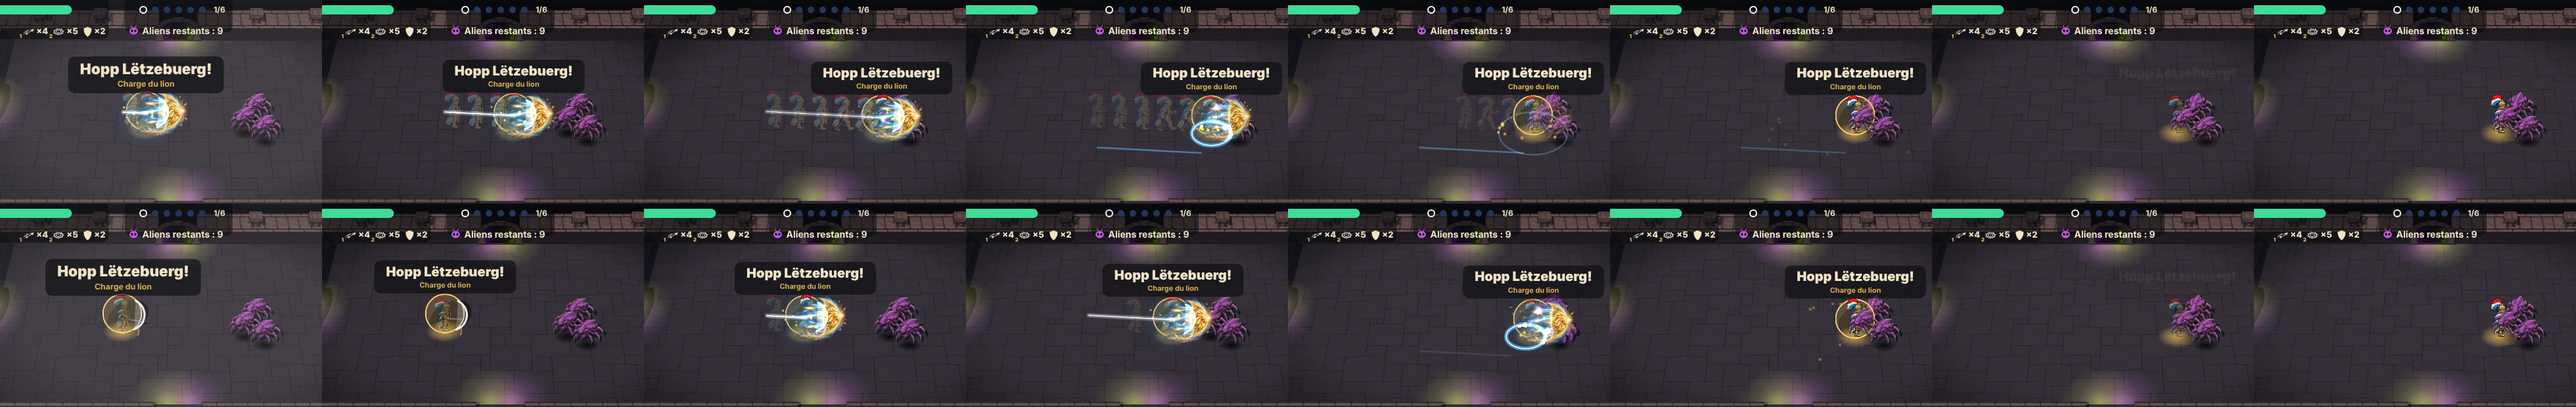
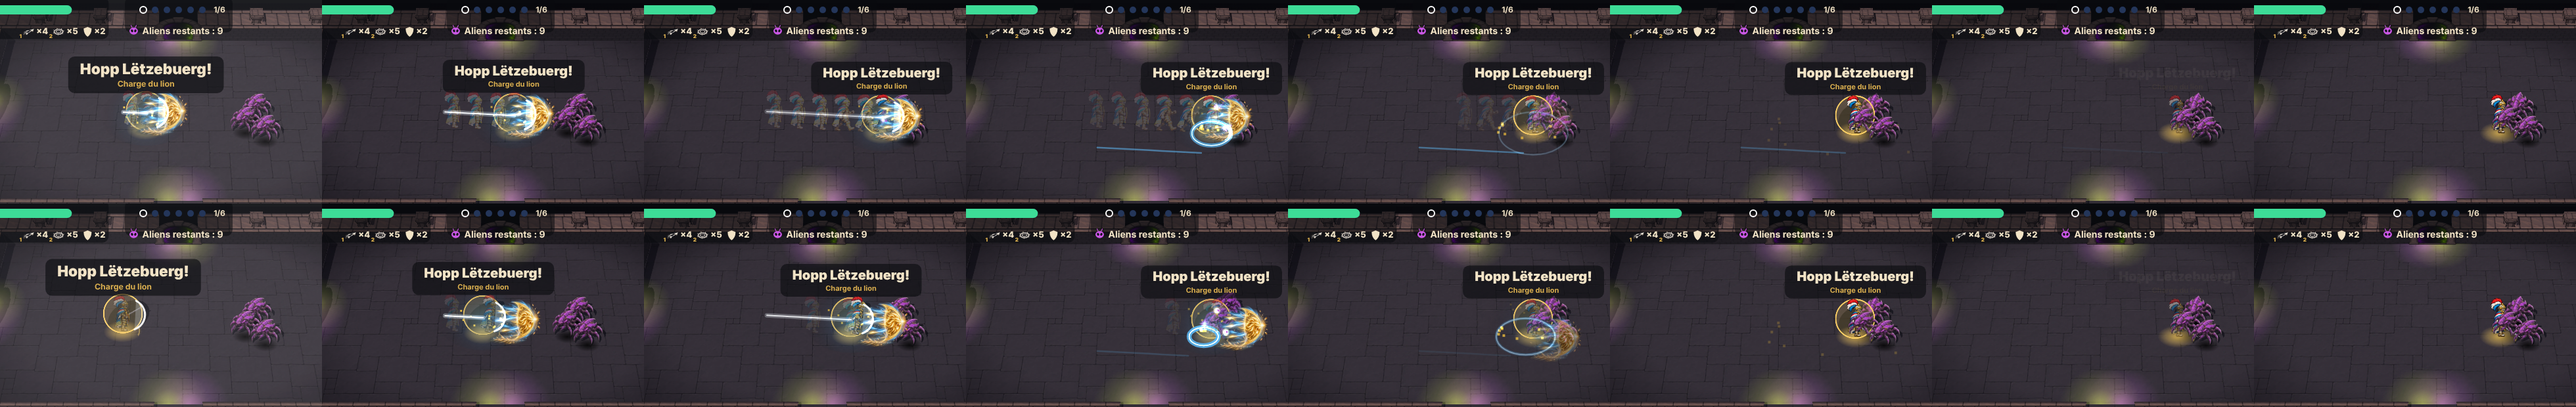
[개발팀] 시전감 시험 3개를 디자인 style-guide 수치로 맞춤 (활 하늘로·빛줄기·조준 원·포물선 창·검끝 섬광·돌진 기울기) + 움짤
Claude-Session: https://claude.ai/code/session_013M9CK2UFP2bu5qUnTrTZoi

diff --git a/src/game.js b/src/game.js
@@ -658,26 +658,32 @@
   // 시험 3개 먼저(한국 1·스위스 1·룩셈부르크 1). 사용자 확인 뒤 나라를 늘려요
   const FEEL = new Set(['korea', 'switzerland', 'luxembourg']);
   const feelOn = () => FEEL.has(G.country.key);
-  const FEEL_T = { BOW_UP: .15, BOW_FLY: .30, THROW_REL: .20, CROUCH: .15 };   // 활 들기 → 쏘기 0.15 · 쏜 뒤 0.3초에 낙하 · 던지기 놓는 순간 0.2(꽂힐 때까지 손이 비어요) · 돌진 웅크리기 0.15
+  // 시간은 style-guide "스킬 시전 동작" 표 (디자인팀 9e253d1)
+  const FEEL_T = { BOW_REL: .15, BOW_FLY: .30, BOW_BACK: .10, THROW_PREP: .10, THROW_REL: .15, THROW_BACK: .10, DASH_PREP: .06, DASH_BACK: .12 };
   const AFTER = { GHOST_LIFE: .15, GHOST_GAP: .075, GHOST_AL: .18, TRAIL_AL: .2, TRAIL_TAIL: .15, SCRAPE_LIFE: .3, SCRAPE_AL: .2 };   // 잔상 "중간": 분신 최대 2개·0.15초·옅게 · 길 1겹 · 긁힘 0.3초
-  const castStart = (k, dur, ang) => { G.hero.cast = { k, t: 0, dur, ang }; };
-  // 시전 몸동작: 무기 각도·밀기·숨기기 + 몸 눌림 (평타 휘두르기가 오면 그게 먼저예요)
+  const castStart = (k, dur, ang, ex) => { G.hero.cast = Object.assign({ k, t: 0, dur, ang }, ex); };
+  const D2R = Math.PI / 180;
+  // 무기 끝 섬광: 흰 4갈래 별 16px + 나라 색 빛무리 지름 20, 0.05초 (자리는 그리는 순간의 무기 끝 h.tip)
+  const tipFlash = (x, y) => { const H = G.hero, p = H && H.tip ? H.tip : { x: x, y: y }; sfx('tipFlash', p.x, p.y, .05, { col: (SKILL_COL[G.country.key] || [])[0] || ['#FFFFFF', '#E8D9A8'] }); };
+  // 시전 몸동작: 무기 각도·밀기·숨기기 + 몸 (평타·걷기 자세보다 먼저예요)
   function castPose(h) {
-    const c = h.cast, t = c.t, side = Math.cos(c.ang) >= 0 ? 1 : -1, rest = c.ang + REST * side, ease = q => q * q * (3 - 2 * q);
-    if (c.k === 'bowUp') {   // 한국 1: 활을 하늘로 들어 쏘고 내려요
-      const up = -Math.PI / 2 + .35 * side, U = FEEL_T.BOW_UP;
-      const q = t < U ? ease(t / U) : t < U + .15 ? 1 : 1 - ease(Math.min(1, (t - U - .15) / .15));
-      return { a: rest + (up - rest) * q, push: t >= U && t < U + .06 ? -3 : 0, body: { oy: -2 * q } };
+    const c = h.cast, t = c.t, side = Math.cos(c.ang) >= 0 ? 1 : -1, ca = Math.cos(c.ang), sa = Math.sin(c.ang), rest = c.ang + REST * side, ease = q => q * q * (3 - 2 * q), rm = reduceMotion ? .5 : 1;
+    if (c.k === 'bowUp') {   // 한국 1: 활은 bowM(하늘 −70°)이 그려요 · 몸만 살짝 젖혀요
+      const q = t < .1 ? ease(t / .1) : t < FEEL_T.BOW_REL ? 1 : 1 - ease(Math.min(1, (t - FEEL_T.BOW_REL) / FEEL_T.BOW_BACK));
+      return { a: rest, push: 0, body: { oy: -2 * q * rm } };
     }
-    if (c.k === 'throw') {   // 스위스 1: 뒤로 젖혔다가 앞으로 던져요 (놓은 뒤엔 손이 비어요)
-      const R = FEEL_T.THROW_REL, back = c.ang - 2.3 * side;
-      if (t < R - .06) { const q = ease(t / (R - .06)); return { a: rest + (back - rest) * q, push: -4 * q, body: { ox: -Math.cos(c.ang) * 3 * q } }; }
-      if (t < R) { const q = (t - (R - .06)) / .06; return { a: back + (c.ang - back) * q, push: 8 * q, body: { ox: Math.cos(c.ang) * 3 * q } }; }
-      return { a: c.ang, push: 8 * (1 - (t - R) / (c.dur - R)), hide: true };
+    if (c.k === 'throw') {   // 스위스 1: 조준 −45° 젖힘(뒤로·위로 당김) → 조준 +15°까지 내지르며 놓기 → 복귀 0.10초 빈손
+      const P = FEEL_T.THROW_PREP, R = FEEL_T.THROW_REL, back = c.ang - 45 * D2R * side, fwd = c.ang + 15 * D2R * side;
+      if (t < P) { const q = ease(t / P); return { a: rest + (back - rest) * q, push: -6 * q, body: { ox: -ca * 2 * q * rm } }; }
+      if (t < R) { const q = (t - P) / (R - P); return { a: back + (fwd - back) * q, push: -6 + 20 * q, body: { ox: (-2 + 5 * q) * ca * rm } }; }
+      return { a: fwd, push: 0, hide: true, body: { ox: 3 * ca * (1 - (t - R) / FEEL_T.THROW_BACK) * rm } };
     }
-    if (c.k === 'crouch') {   // 룩셈부르크 1: 몸을 낮추고 무기를 앞으로
-      const q = ease(Math.min(1, t / c.dur));
-      return { a: c.ang + .15 * side * (1 - q), push: -6 * q, body: { sy: 1 - .12 * q, sx: 1 + .06 * q, ox: -Math.cos(c.ang) * 3 * q } };
+    if (c.k === 'dash') {   // 룩셈부르크 1: 준비(낮추고 검 뒤로 −40°) → 돌진 중(4px·5° 앞으로, 검 곧게) → 끝 뒤 0.12초 복귀
+      const P = FEEL_T.DASH_PREP, E = P + c.run;
+      if (t < P) { const q = ease(t / P); return { a: rest + (c.ang - 40 * D2R * side - rest) * q, push: 0, body: { ox: -ca * 2 * q * rm, sx: 1 + .03 * q, sy: 1 - .05 * q } }; }
+      if (t < E) return { a: c.ang, push: 4, body: { ox: ca * 4 * rm, oy: sa * 2 * rm, rot: side * 5 * D2R * rm } };
+      const q = ease(Math.min(1, (t - E) / FEEL_T.DASH_BACK));
+      return { a: c.ang + (rest - c.ang) * q, push: 4 * (1 - q), body: { ox: ca * 4 * (1 - q) * rm, rot: side * 5 * D2R * (1 - q) * rm } };
     }
     return null;
   }
@@ -698,7 +704,7 @@
       if (m.k === 'seal') dur *= .65;                   // 핀란드 1: 가장 빠른 돌진
       if (m.k === 'leap') dur = .4 + L / 1600;          // 멕시코 1: 높이 뛰어 그 자리로
       h.dash = { t: 0, dx: o.dx, dy: o.dy, a0: o.ang, base: o.dmg, dmg: o.dmg * (m.mul || 1), hit: new Set(), gT: 0, pT: 0, mod: m, k: m.k, x0: h.x, y0: h.y, sx: h.x, sy: h.y, ex, ey, L, tx: o.tx, ty: o.ty, path: [[h.x, h.y]], dur, carry: [], seeds: 0, inv: 0, look: heroLookNow() };
-      if (feelOn() && m.k === 'dashInv') { h.dash.wait = FEEL_T.CROUCH; castStart('crouch', FEEL_T.CROUCH, o.ang); }   // 시전감: 웅크렸다가 출발 (GDD 0-20)
+      if (feelOn() && m.k === 'dashInv') { h.dash.wait = FEEL_T.DASH_PREP; castStart('dash', FEEL_T.DASH_PREP + dur + FEEL_T.DASH_BACK, o.ang, { run: dur }); after(FEEL_T.DASH_PREP, () => tipFlash(h.x, h.y)); }   // 시전감: 낮췄다가 출발 + 검끝 섬광 (GDD 0-20)
     },
     area(o) {
       const m = o.mod, HERO = G.hero, R = SKB.AREA_R, f = FIELD.floor;
@@ -786,12 +792,20 @@
       { const z = G.zones[G.zones.length - 1]; if (m.life) z.life = m.life; if (m.k === 'ring6') { z.inside = new Map(); z.cnt = new Map(); } }
       if (m.k === 'vortex') { const z = G.zones[G.zones.length - 1]; z.t = -.35; z.tick += .35; z.x0 = h.x; z.y0 = h.y; }   // 칠레 2: 검은 바람이 날아가 떨어진 자리에
       if (feelOn() && (m.k === 'sky' || m.k === 'trap')) {   // 시전감 (GDD 0-20): 장수에서 출발해 도착하는 순간 구역이 켜져요 · 자리·범위·피해는 그대로
-        const z = G.zones[G.zones.length - 1], fly = m.k === 'sky' ? FEEL_T.BOW_FLY : clamp(Math.hypot(z.x - h.x, z.y - h.y) / 900, .15, .35);
-        const pre = (m.k === 'sky' ? FEEL_T.BOW_UP : FEEL_T.THROW_REL) + fly;
-        z.t = -pre; z.tick += pre; z.pre = pre; z.fly = fly; z.launch = m.k; z.x0 = h.x; z.y0 = h.y; z.ang = o.ang;
-        if (m.k === 'sky') { castStart('bowUp', FEEL_T.BOW_UP + .3, o.ang); after(FEEL_T.BOW_UP, () => { const H = G.hero; sfx('muzzle', H.x, H.y - 30, .12, { col: (SKILL_COL.korea || [])[0] || ['#FFFFFF', '#E8D9A8'], a: -Math.PI / 2 }); AUDIO.play('attack'); }); }
-        else { castStart('throw', pre, o.ang); after(FEEL_T.THROW_REL, () => AUDIO.play('attack')); }
-        after(pre, () => { sfx('ringFx', z.x, z.y, .25, { r0: 10, r1: 50, col: (SKILL_COL[G.country.key] || [])[0] || ['#FFFFFF', '#E8D9A8'] }); AUDIO.play('impact'); });   // 도착
+        const z = G.zones[G.zones.length - 1], sky = m.k === 'sky', fly = sky ? FEEL_T.BOW_FLY : clamp(Math.hypot(z.x - h.x, z.y - h.y) / 900, .15, .35);
+        const rel = sky ? FEEL_T.BOW_REL : FEEL_T.THROW_REL, pre = rel + fly;
+        z.t = -pre; z.tick = sky ? pre : z.tick + pre; z.pre = pre; z.fly = fly; z.launch = m.k; z.x0 = h.x; z.y0 = h.y; z.ang = o.ang;   // 화살비는 첫 낙하와 첫 피해가 같은 순간
+        const col = (SKILL_COL[G.country.key] || [])[0] || ['#FFFFFF', '#E8D9A8'];
+        if (sky) {   // 활을 조준 쪽 하늘(위 −70°)로 들고 당겼다가 0.15초에 놓아요
+          const side = Math.cos(o.ang) >= 0 ? 1 : -1, up = -Math.PI / 2 + 20 * D2R * side;
+          castStart('bowUp', FEEL_T.BOW_REL + FEEL_T.BOW_BACK, o.ang);
+          h.bowM = { t: 0, T: FEEL_T.BOW_REL, ang: up, dx: 0, dy: 0, skill: true };
+          after(FEEL_T.BOW_REL, () => { const f = bowFrame(G.hero), nk = bowPt(f, 0, BOW.tipV * f.sc * f.sx); z.rx = nk.x + f.ca * 28; z.ry = nk.y + f.sa * 28; z.up = up; sfx('tipFlash', z.rx, z.ry, .05, { col }); AUDIO.play('attack'); });
+        } else {
+          castStart('throw', FEEL_T.THROW_REL + FEEL_T.THROW_BACK, o.ang);
+          after(FEEL_T.THROW_REL, () => { const H = G.hero; z.rx = H.tip ? H.tip.x : H.x; z.ry = H.tip ? H.tip.y : H.y - 30; tipFlash(); AUDIO.play('attack'); });
+        }
+        after(pre, () => { sfx('arrive', z.x, z.y, .08, { col }); if (!sky) sfx('ringFx', z.x, z.y, .1, { r0: 8, r1: 30, col: ['#B89A6A', '#B89A6A'] }); AUDIO.play('impact'); });   // 도착 섬광 6→14 (+ 덫은 흙먼지 고리)
       }
     },
   };
@@ -826,7 +840,7 @@
       const d = h.dash;
       if (k === 'leap') return sfx('art', tx, ty, (d ? d.dur : .5) + .5, Object.assign(b, { mode: 'drop', delay: Math.max(0, (d ? d.dur : .5) - .08), S: 190 }));   // 멕시코 1: 착지 순간 독수리
       if (k === 'blink') return sfx('art', x0, y0, .5, Object.assign(b, { mode: 'beam', len: Math.max(80, dist), H: 90 }));
-      if (k === 'dashInv') { const w = d && d.wait || 0; return sfx('art', x0, y0, (d ? d.dur : .35) + .25 + w, Object.assign(b, { mode: 'front', S: 110, delay: w })); }   // 룩셈부르크 1: 앞에 붙어 함께
+      if (k === 'dashInv') { const w = d && d.wait || 0; return sfx('art', x0, y0, (d ? d.dur : .35) + .25 + w, Object.assign(b, { mode: 'front', S: 110, delay: w, tipped: feelOn() })); }   // 룩셈부르크 1: 앞에 붙어 함께
       return sfx('art', x0, y0, (d ? d.dur * (k === 'returnDash' ? 2 : 1) : .35) + (feelOn() ? AFTER.TRAIL_TAIL : .35), Object.assign(b, { mode: 'trail', H: 86, lite: feelOn() }));   // 지나간 길을 따라 늘어나요
     }
     if (sk.type === 'area') {
@@ -1091,6 +1105,7 @@
       if (a.seal > 0) at(a.x, a.y, () => { ctx.save(); ctx.fillStyle = SKW; for (let i = 0; i < 5; i++) { ctx.globalAlpha = .8; ctx.fillRect(a.x - 10 + i * 5, a.y - top + Math.sin(G.t * 6 + i) * 3, 2.5, 2.5); } ctx.restore(); });
       if (a.freeze > 0) at(a.x, a.y, () => { ctx.save(); ctx.globalCompositeOperation = 'lighter'; ctx.fillStyle = SKG; ctx.beginPath(); for (let i = 0; i < 10; i++) { const q = -Math.PI / 2 + i * Math.PI / 5, r = i % 2 ? 2.5 : 7; ctx.lineTo(a.x + Math.cos(q + G.t * 3) * r, a.y - top + Math.sin(q + G.t * 3) * r); } ctx.fill(); ctx.restore(); });
     }
+    for (const z of G.zones) if (z.launch === 'sky' && z.t < 0) at(z.x0, z.y0, () => drawRise(z));   // 시전감: 활에서 솟는 빛줄기
     for (const z of G.zones) at(z.x, z.y, () => {
       const T = SKB.ZONE_TIME, al = z.t < .2 ? z.t / .2 : z.t > T - .3 ? (T - z.t) / .3 : 1, R = SKB.ZONE_D / 2;
       ctx.save();
@@ -1103,10 +1118,11 @@
         ctx.restore(); return;
       }
       if (z.launch && z.t < 0) { drawLaunch(z); ctx.restore(); return; }   // 시전감: 장수 → 목표로 가는 중
-      if (z.launch === 'trap') { ctx.save(); ctx.globalAlpha = 1; FX.drawShot('polearm', z.x - Math.cos(z.ang) * 6, z.y - 20, Math.PI / 2 + Math.cos(z.ang) * .35, 0, G.country.key); ctx.restore(); }   // 꽂힌 미늘창
+      if (z.launch === 'trap') { const sd = Math.cos(z.ang) >= 0 ? 1 : -1, a = Math.PI / 2 - 15 * D2R * sd; ctx.save(); ctx.globalAlpha = 1; FX.drawShot('polearm', z.x - Math.cos(a) * 22, z.y - Math.sin(a) * 22, a, 0, G.country.key); ctx.restore(); }   // 꽂힌 미늘창 (−75°, 날 아래) · 덫과 함께 사라져요
       if (z.life && ['trap', 'gather', 'corners'].includes(z.k) || z.k === 'ring6') {
-        const L = z.life || SKB.ZONE_TIME, a3 = z.t < .15 ? z.t / .15 : z.t > L - .25 ? Math.max(0, (L - z.t) / .25) : 1;
-        if (z.k === 'trap') {   // 바닥 마름모
+        const L = z.life || SKB.ZONE_TIME, fi = z.launch ? .1 : .15, a3 = z.t < fi ? z.t / fi : z.t > L - .25 ? Math.max(0, (L - z.t) / .25) : 1;
+        if (z.k === 'trap') {   // 바닥 마름모 (시전감: 도착하며 0.85→1배 0.08초)
+          if (z.launch && z.t < .08) { const sc = .85 + .15 * z.t / .08; ctx.translate(z.x, z.y); ctx.scale(sc, sc); ctx.translate(-z.x, -z.y); }
           ctx.globalAlpha = .7 * a3; ctx.strokeStyle = SKS; ctx.lineWidth = 2; ctx.beginPath(); ctx.moveTo(z.x - R, z.y); ctx.lineTo(z.x, z.y - R * .7 * GK() / .35 * .35); ctx.lineTo(z.x + R, z.y); ctx.lineTo(z.x, z.y + R * .7 * GK() / .35 * .35); ctx.closePath(); ctx.stroke();
           ctx.strokeStyle = SKG; ctx.lineWidth = 1; ctx.beginPath(); ctx.moveTo(z.x - 8, z.y); ctx.lineTo(z.x + 8, z.y); ctx.moveTo(z.x, z.y - 5); ctx.lineTo(z.x, z.y + 5); ctx.stroke();
         } else if (z.k === 'ring6') {   // 테두리에 꽂힌 칼 6개 + 테두리 선
@@ -1295,7 +1311,7 @@
           const grow = e.mode === 'beam' && !reduceMotion ? Math.min(1, t / .18) : 1, H = e.H;
           ctx.globalAlpha = fade; ctx.translate(e.x, e.y - (e.floor ? 4 : 24)); ctx.rotate(ang); ctx.drawImage(im, 0, -H / 2, len * grow, H);
         }
-        else if (e.mode === 'front') { const h = G.hero, S = e.S; ctx.globalAlpha = fade; ctx.translate(h.x + Math.cos(e.ang) * 34, h.y - 26 + Math.sin(e.ang) * 20); ctx.rotate(e.ang); ctx.drawImage(im, -S * .6, -S / 2, S, S); }
+        else if (e.mode === 'front') { const h = G.hero, S = e.S, tp = e.tipped && h.tip; ctx.globalAlpha = fade; if (tp) ctx.translate(h.tip.x + Math.cos(e.ang) * 12, h.tip.y + Math.sin(e.ang) * 8); else ctx.translate(h.x + Math.cos(e.ang) * 34, h.y - 26 + Math.sin(e.ang) * 20); ctx.rotate(e.ang); ctx.drawImage(im, -S * .6, -S / 2, S, S); }   // 시전감: 방패 반원은 검끝 앞에
         else if (e.mode === 'orbit') { const h = G.hero, S = 180; ctx.globalAlpha = fade * .95; ctx.translate(h.x, h.y - 14); ctx.scale(1, gk); ctx.rotate(reduceMotion ? 0 : G.t * 5); ctx.drawImage(im, -S / 2, -S / 2, S, S); }
         else if (e.mode === 'drop') { const pop = reduceMotion ? 1 : 1.25 - .25 * Math.min(1, t / .15), S = e.S * pop, hold = e.hold || 0; ctx.globalAlpha = t < hold ? 1 : fade; ctx.translate(e.x, e.y - S * .3); ctx.drawImage(im, -S / 2, -S / 2, S, S); }
         ctx.restore();
@@ -1309,6 +1325,9 @@
     if (e.type === 'scorch') { ctx.globalCompositeOperation = 'source-over'; ctx.globalAlpha = .32 * (1 - k); ctx.fillStyle = '#0A0A0E'; gEll(e.x, e.y, e.r); ctx.fill(); return done(); }   // 그을림 자국 1.5초
     if (e.type === 'scrape') { ctx.globalAlpha = (e.al || .6) * (1 - k); ctx.strokeStyle = e.col[1]; ctx.lineWidth = 3; ctx.beginPath(); e.pts.forEach(([x, y], i) => i ? ctx.lineTo(x, y) : ctx.moveTo(x, y)); ctx.stroke(); return done(); }   // 바닥 긁힘 1초
     if (e.type === 'muzzle') { ctx.globalAlpha = 1 - k; ctx.fillStyle = e.col[0]; ctx.beginPath(); ctx.arc(e.x, e.y - 24, 9 * (1 - k * .5), 0, Math.PI * 2); ctx.fill(); ctx.fillStyle = '#FFFFFF'; ctx.beginPath(); ctx.arc(e.x, e.y - 24, 4, 0, Math.PI * 2); ctx.fill(); return done(); }   // 출발 섬광
+    if (e.type === 'tipFlash') { ctx.globalCompositeOperation = 'lighter'; ctx.globalAlpha = 1 - k; const g = ctx.createRadialGradient(e.x, e.y, 0, e.x, e.y, 10); g.addColorStop(0, e.col[0]); g.addColorStop(1, 'rgba(0,0,0,0)'); ctx.fillStyle = g; ctx.beginPath(); ctx.arc(e.x, e.y, 10, 0, 7); ctx.fill();
+      ctx.fillStyle = '#FFFFFF'; ctx.beginPath(); for (let i = 0; i < 8; i++) { const a = i * Math.PI / 4, r = i % 2 ? 1.6 : 8; ctx.lineTo(e.x + Math.cos(a) * r, e.y + Math.sin(a) * r); } ctx.fill(); return done(); }   // 무기 끝 섬광: 4갈래 별 16px + 빛무리 지름 20
+    if (e.type === 'arrive') { ctx.globalAlpha = 1 - k; ctx.strokeStyle = e.col[0]; ctx.lineWidth = 3; gEll(e.x, e.y, 6 + 8 * k); ctx.stroke(); ctx.fillStyle = '#FFFFFF'; gEll(e.x, e.y, 3 * (1 - k)); ctx.fill(); return done(); }   // 도착 섬광 6→14
     if (e.type === 'pop') { ctx.globalAlpha = 1 - k; ctx.strokeStyle = e.col; ctx.lineWidth = 3; ctx.beginPath(); ctx.arc(e.x, e.y - 22, 4 + 8 * k, 0, Math.PI * 2); ctx.stroke(); ctx.fillStyle = '#FFFFFF'; ctx.beginPath(); ctx.arc(e.x, e.y - 22, 3 * (1 - k), 0, Math.PI * 2); ctx.fill(); return done(); }   // 맞은 곳 작은 폭발 (지름 24)
     if (e.type === 'boostSlash') { ctx.globalAlpha = e.al * (1 - k); ctx.strokeStyle = '#FFFFFF'; ctx.lineWidth = 4; ctx.beginPath(); ctx.ellipse(e.x, e.y - 24, 44, 44 * .7, 0, e.a - 1.1, e.a + 1.1); ctx.stroke(); return done(); }   // 무적 중 치기 잔상
     if (e.type === 'aimFlash') {   // PC: 커서 자리에 목표 원이 1.25배 → 1배로 줄며 0.35초 동안 사라져요 (움직임 줄이기면 깜빡임만)
@@ -1386,24 +1405,31 @@
   }
   // 시전감: 장수 손/활에서 출발해 목표에 닿기까지 (z.t: −pre → 0)
   function drawLaunch(z) {
-    const u = z.t + z.pre, R = z.pre - z.fly, H = G.hero, hx = H ? H.x : z.x0, hy = H ? H.y : z.y0;
-    if (u < R) return;   // 아직 손에 (몸동작 중)
-    const q = Math.min(1, (u - R) / z.fly);
-    if (z.launch === 'sky') {   // 한국 1: 화살 3발이 높은 포물선으로 — 활에서 하늘로 솟았다가 목표 위로 떨어져요
-      const P = r => { const ax = hx + (z.x - hx) * r, ay = hy - 44 + (z.y - (hy - 44)) * r - Math.sin(Math.PI * r) * 190; return [ax, ay]; };
-      ctx.save(); ctx.globalCompositeOperation = 'lighter'; ctx.strokeStyle = SKW; ctx.lineWidth = 1.5;
-      for (let i = 0; i < 3; i++) {
-        const r = Math.max(0, Math.min(1, q - i * .06)), o = (i - 1) * 14 * r;
-        const [x, y] = P(r), [px, py] = P(Math.max(0, r - .12));
-        ctx.globalAlpha = .55; ctx.beginPath(); ctx.moveTo(px + o, py); ctx.lineTo(x + o, y); ctx.stroke();   // 빛 꼬리
-        ctx.save(); ctx.globalCompositeOperation = 'source-over'; ctx.globalAlpha = 1; FX.drawShot('arrow', x + o, y, Math.atan2(y - py, x - px), 0); ctx.restore();
-      }
-      ctx.restore();
-      ctx.globalAlpha = .35 * q; ctx.strokeStyle = SKG; ctx.lineWidth = 2; gEll(z.x, z.y, SKB.ZONE_D / 2 * q); ctx.stroke();   // 떨어질 자리가 미리 커져요
-    } else {   // 스위스 1: 미늘창이 손에서 목표로 날아가 꽂혀요
-      const x = hx + (z.x - hx) * q, y = hy - 30 + (z.y - 20 - (hy - 30)) * q - Math.sin(Math.PI * q) * 36, vy = (z.y - 20 - (hy - 30)) - Math.cos(Math.PI * q) * Math.PI * 36;
-      ctx.globalAlpha = 1; FX.drawShot('polearm', x, y, Math.atan2(vy, z.x - hx), 0, G.country.key);
+    const u = z.t + z.pre, R = z.pre - z.fly, q = Math.max(0, (u - R) / z.fly), Rz = SKB.ZONE_D / 2;
+    if (z.launch === 'sky') {   // 한국 1: 놓은 뒤 0.25초에 목표 바닥 원이 0.05초에 나타나요 (빛줄기는 drawRise)
+      const a = clamp((u - R - .25) / .05, 0, 1); if (a > 0) { ctx.globalAlpha = .55 * a; ctx.strokeStyle = SKG; ctx.lineWidth = 2; gEll(z.x, z.y, Rz); ctx.stroke(); }
+      return;
     }
+    ctx.globalAlpha = .25; ctx.strokeStyle = SKW; ctx.lineWidth = 2; gEll(z.x, z.y, Rz); ctx.stroke();   // 도착 전엔 조준 원만 투명 0.25
+    if (u < R || z.rx == null) return;
+    // 스위스 1: 미늘창이 포물선으로 (꼭대기 = 거리 × 0.3, 30~70) · 날 끝이 진행 방향 · 그림자는 바닥을 곧게
+    const sx = z.rx, sy = z.ry, ex = z.x, ey = z.y - 18, top = clamp(Math.hypot(ex - sx, ey - sy) * .3, 30, 70);
+    const P = r => [sx + (ex - sx) * r, sy + (ey - sy) * r - Math.sin(Math.PI * r) * top], [x, y] = P(q), [px, py] = P(Math.max(0, q - .05));
+    const gx = z.x0 + (z.x - z.x0) * q, gy = z.y0 + (z.y - z.y0) * q;
+    ctx.globalAlpha = .3; ctx.fillStyle = '#000'; ctx.beginPath(); ctx.ellipse(gx, gy, 14, 4, 0, 0, Math.PI * 2); ctx.fill();
+    ctx.globalAlpha = 1; FX.drawShot('polearm', x, y, Math.atan2(y - py, x - px || .001), 0, G.country.key);
+  }
+  // 한국 1: 놓는 순간 활에서 빛줄기 3개(±8°)가 0.10초 동안 60px 솟아 화면 위로 사라져요 — 흰 심 2px + 나라 색 꼬리 16px
+  function drawRise(z) {
+    const e = z.t + z.pre - FEEL_T.BOW_REL; if (e < 0 || e > .1 || z.rx == null) return;
+    const k = e / .1, col = (SKILL_COL.korea || [])[0] || ['#F2452E', '#3D74D9'];
+    ctx.save(); ctx.globalCompositeOperation = 'lighter'; ctx.lineCap = 'round';
+    for (let i = -1; i <= 1; i++) {
+      const a = z.up + i * 8 * D2R, x = z.rx + Math.cos(a) * 60 * k, y = z.ry + Math.sin(a) * 60 * k;
+      ctx.globalAlpha = 1 - k * .7; ctx.strokeStyle = col[i < 0 ? 0 : 1]; ctx.lineWidth = 4; ctx.beginPath(); ctx.moveTo(x - Math.cos(a) * 16, y - Math.sin(a) * 16); ctx.lineTo(x, y); ctx.stroke();
+      ctx.strokeStyle = '#FFFFFF'; ctx.lineWidth = 2; ctx.beginPath(); ctx.moveTo(x - Math.cos(a) * 8, y - Math.sin(a) * 8); ctx.lineTo(x, y); ctx.stroke();
+    }
+    ctx.restore();
   }
   function drawGhost(e, k) {
     UI.dirBody(G.country.key, e.cell, e.x, e.y, 60, { flip: e.flip, white: true, alpha: e.lite ? AFTER.GHOST_AL * (1 - k) : (e.clone ? .5 : .22) * (1 - k) + .05 }, e.folder);   // 스웨덴 분신은 진하게 · lite = 시전감 잔상 줄이기
@@ -2285,6 +2311,7 @@
   function updateBow(h, dt) {
     const m = h.bowM; if (!m) return;
     m.t += dt;
+    if (!m.rel && m.t >= m.T && m.skill) m.rel = true;   // 스킬(화살비)용 당기기: 탄은 스킬이 쏴요
     if (!m.rel && m.t >= m.T) {
       const f = bowFrame(h), nock = bowPt(f, 0, BOW.tipV * f.sc * f.sx + f.pull), sp = TEMP.SHOT_SPEED;
       const sh = { boost: m.boost, kind: 'arrow', x: h.x + m.dx * 16, y: h.y + m.dy * 16, vx: m.dx * sp, vy: m.dy * sp, dmg: m.dmg, life: 1.6, age: 0, hits: null };
@@ -2358,7 +2385,7 @@
   // 걷기 (9차 그림): 서기 → A → 서기 → B, 초당 8칸. 걷기 칸 = 방향×2 + (A 0, B 1) · 16방향이면 18칸
   function bodyFrame(h, cell) {
     const wi = UI.img['walk/' + G.country.key];
-    if (!h.moving || h.swing || h.dead || reduceMotion || !wi || !wi.naturalWidth) return { folder: 'dir', cell };
+    if (!h.moving || h.swing || h.cast || h.dead || reduceMotion || !wi || !wi.naturalWidth) return { folder: 'dir', cell };
     const ph = Math.floor(h.walkT * 8) % 4;
     if (ph !== 1 && ph !== 3) return { folder: 'dir', cell };
     const n = heroCols(G.country.key), wn = Math.round(wi.naturalWidth / wi.naturalHeight) >= 18 ? 9 : 5;   // 걷기 18칸 = 16방향, 10칸 = 8방향
@@ -2367,13 +2394,13 @@
   }
   function drawHero8(h, c, mo) {
     if (!UI.img['dir/' + c.key] || !UI.img['dir/' + c.key].naturalWidth) return false;
-    const aim = h.swing ? h.swing.ang : Math.atan2(h.dir.y, h.dir.x);
+    const aim = h.cast ? h.cast.ang : h.swing ? h.swing.ang : Math.atan2(h.dir.y, h.dir.x);
     const [cell, flip] = heroDir(aim, c.key);
     const bm = Object.assign({}, mo, { flip });
     if (bm.rot && flip !== mo.flip) bm.rot = -bm.rot;
     const dead = h.dead || (G.scene === 'ending' && G.ending.fell);
-    const tp = !h.swing && h.throwM ? throwPose(h) : null, cp = !h.swing && !tp && h.cast ? castPose(h) : null;   // 시전 몸동작 (GDD 0-20)
-    if (cp && cp.body) { const b2 = cp.body; if (b2.ox) bm.ox = (bm.ox || 0) + b2.ox; if (b2.oy) bm.oy = (bm.oy || 0) + b2.oy; if (b2.sx) bm.sx = (bm.sx || 1) * b2.sx; if (b2.sy) bm.sy = (bm.sy || 1) * b2.sy; }
+    const cp = h.cast ? castPose(h) : null, tp = !cp && !h.swing && h.throwM ? throwPose(h) : null;   // 시전 몸동작이 평타 자세보다 먼저 (GDD 0-20, style-guide)
+    if (cp && cp.body) { const b2 = cp.body; if (b2.ox) bm.ox = (bm.ox || 0) + b2.ox; if (b2.oy) bm.oy = (bm.oy || 0) + b2.oy; if (b2.sx) bm.sx = (bm.sx || 1) * b2.sx; if (b2.sy) bm.sy = (bm.sy || 1) * b2.sy; if (b2.rot) bm.rot = (bm.rot || 0) + b2.rot * (flip ? -1 : 1); }
     const w = cp ? { a: cp.a, push: cp.push } : tp ? { a: tp.a, push: tp.push } : weaponAngle(h, aim);
     // 손 위치: 128칸 기준 좌표를 게임 크기로 (그림이 192칸이어도 비율이 같아요 · 왼쪽 방향은 x → 128 − x)
     const kk = 60 / 112, hd = handAt(cell, c.key), hdx = (hd[0] - 64) * kk * (flip ? -1 : 1), hdy = (hd[1] - 124) * kk;
@@ -2381,6 +2408,7 @@
     if (tp) { const ca = Math.cos(h.throwM.ang), sa = Math.sin(h.throwM.ang); hx += ca * tp.hand; hy += tp.oy + sa * tp.hand * .6; }
     if (tp && !dead) throwTrail(h, c, hx, hy, w.a, tp, mo.alpha);   // 잔상 2개 + 휘두름 호
     const behind = hd[2];   // 오른쪽위·위를 볼 때는 몸 뒤에
+    { const L = 60 * wLen(c) * .95; h.tip = { x: hx + Math.cos(w.a) * L, y: hy + Math.sin(w.a) * L }; }   // 무기 끝 (시전 섬광 자리)
     if (!dead && behind && !(cp && cp.hide)) drawWeapon(h, c, hx, hy, w.a, mo.alpha);
     const bf = bodyFrame(h, cell);
     UI.dirBody(c.key, bf.cell, h.x, h.y, 60, bm, bf.folder);

diff --git a/teams/3-개발/작업기록.md b/teams/3-개발/작업기록.md
@@ -583,12 +583,13 @@
 ## 2026-11-27
 - 사용자 결정(팀장 전달): 일시정지 메뉴는 그 나라 언어로 확정. 코드는 그대로이고 PAUSE_LANG 주석만 확정으로 고침.
 
-## 2026-11-27 스킬 시전감 시험 3개 (GDD 0-20, 사용자 "전부 추천대로")
-- 시험 나라만 켜요: `FEEL = {korea, switzerland, luxembourg}`. 사용자 확인 뒤 나라를 늘리면 돼요. 판정 자리·범위·피해는 그대로이고, 첫 피해만 도착 순간으로 늦췄어요.
-- 공통: `h.cast` 시전 몸동작(`castPose`: 무기 각도·밀기·숨기기·몸 눌림). 평타 휘두르기가 오면 그게 먼저예요.
-- 한국 1 화살비: 0~0.15초 활을 하늘로 들어 쏨(활끝 섬광) → 화살 3발 포물선 0.3초 → 도착 고리 → 비 시작. 첫 틱은 도착 0.25초 뒤로 예전과 같아요.
-- 스위스 1 덫: 0.14초 젖히기 → 0.06초 던지기 → 미늘창이 날아가 꽂힘(거리÷900, 0.15~0.35초). 꽂힐 때까지 손이 비고, 꽂힌 창이 덫 가운데 남아요. 덫이 켜지는 건 꽂힌 뒤예요.
-- 공통 버그 수정: 구역이 일찍 끝나면(덫 발동) 대표 그림도 0.15초에 걷어요. 전에는 6초 수명대로 남았어요(모든 나라 적용).
-- 룩셈부르크 1 돌진: 0.15초 웅크리기(몸 낮추기, 무기 앞으로) → 출발. 무적은 누른 순간부터예요.
-- 잔상 "중간"(시험 나라만): 분신 0.075초마다·0.15초·알파 0.18 → 동시에 최대 2개, 길 1겹·꼬리 0.15초, 바닥 긁힘 0.3초·알파 0.2.
-- 시험 `test/skillfeel.js`(cap.js 바탕): 전/후 8장 + 0.04초 간격 움짤. 자료는 review-4/skill-feel/after/.
+## 2026-11-27 스킬 시전감 시험 3개 (GDD 0-20, 사용자 "전부 추천대로" · 시간은 style-guide "스킬 시전 동작" 9e253d1)
+- 시험 나라만 켜요: `FEEL = {korea, switzerland, luxembourg}`. 사용자 확인 뒤 나라를 늘려요. 판정 자리·범위·피해는 그대로이고, 첫 피해만 도착 순간으로 맞췄어요. 범위 중심은 옮기지 않아요(GDD 0-17).
+- 공통: `h.cast` 시전 몸동작(`castPose`)이 평타·걷기 자세보다 먼저예요. 시전 중엔 걷기 칸 대신 서기 칸을 쓰고, 이동은 막지 않아요. 움직임 줄이기면 몸 기울기를 절반으로 줄여요. 무기 끝 섬광(`tipFlash`: 4갈래 별 16px + 빛무리 20, 0.05초)을 넣었고, 무기 끝은 매 프레임 `h.tip`에 저장해요.
+- 한국 1 화살비: 활을 하늘(−70°)로 들고 당김(bowM 재사용, 탄 없음) → 0.15초 놓기 섬광 + 빛줄기 3개(±8°, 0.1초·60px) → 놓은 뒤 0.25초 바닥 원 → 0.30초 첫 낙하 = 첫 피해(누른 뒤 0.45초). 6번 틱은 그대로예요. 복귀 0.1초.
+- 스위스 1 덫: 조준 −45° 젖힘 0.1초 → +15°까지 내지르기 0.05초(놓기 섬광) → 포물선(꼭대기 거리×0.3, 30~70) + 바닥 그림자, 비행 거리÷900(0.15~0.35초). 도착 전엔 조준 원 0.25만 보여요. 도착하면 섬광 6→14와 흙먼지 고리가 나고, 마름모가 0.85→1로 커지며 창이 −75°로 꽂혀요. 손은 놓은 뒤 0.1초 동안 비어요.
+- 공통 버그 수정(모든 나라): 구역이 일찍 끝나면(덫 발동 등) 대표 그림도 0.15초 안에 걷어요. 전에는 6초 수명대로 남았어요.
+- 룩셈부르크 1 돌진: 0.06초 준비(낮추기, 검 −40°) → 돌진 중 4px·5° 앞으로 기울이고 검을 곧게(검끝 섬광) → 끝 뒤 0.12초 복귀. 방패 반원은 검끝 앞에 붙여요.
+- 잔상 "중간"(시험 나라만): 분신은 0.075초마다 0.15초·알파 0.18이라 동시에 최대 2개, 길은 1겹·꼬리 0.15초, 바닥 긁힘은 0.3초·알파 0.2예요.
+- 아직: 덫 손 무기 '톡' 다시 나타남(1.15→1)과 활 떨림은 안 넣었어요(작음). 그을림·탄 꼬리·말발굽 예산은 시험 3개와 상관없어서 확인 뒤 넓힐 때 같이 해요.
+- 시험 `test/skillfeel.js`(cap.js 바탕): 전/후 8장 + 0.04초 간격 움짤. 자료는 review-4/skill-feel/after/. 회귀 controls·aim·phone·stick·safe·tapmove·dir8·dir16·guns·mouse·esc·hide·voice·bgm·ads2·ending·endfar·langs 통과.
